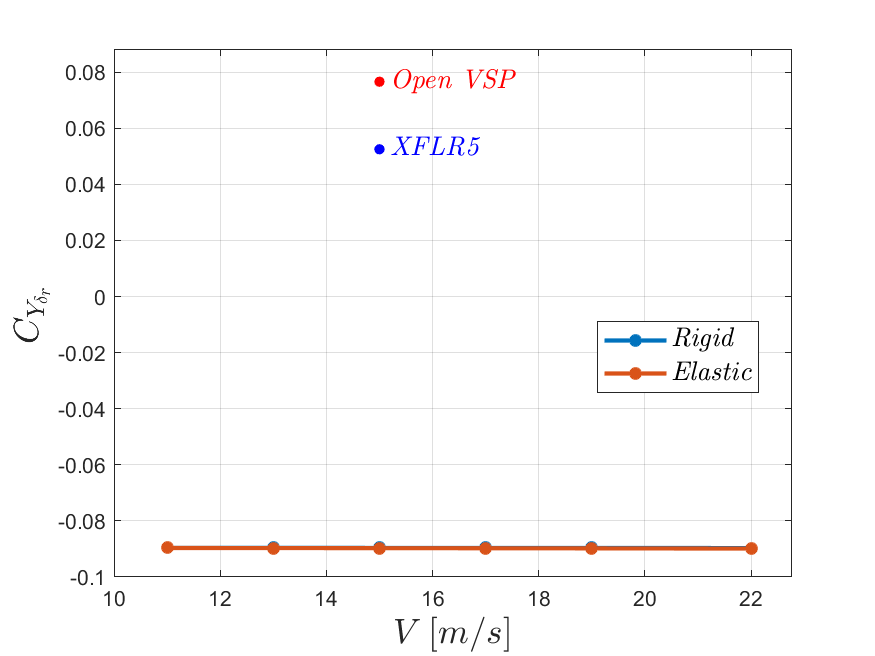
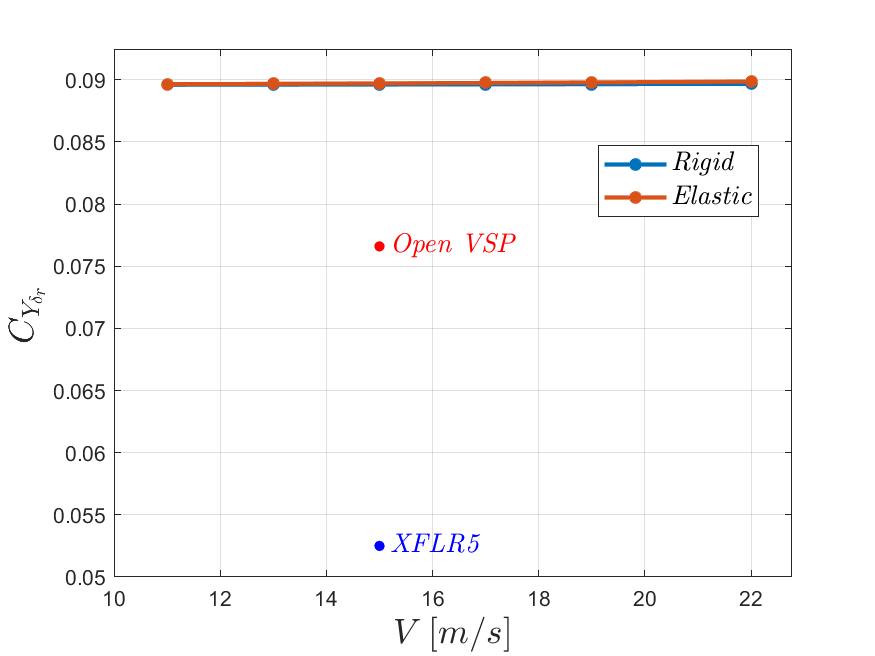
Cambio di segno alle derivate di controllo del latero direzionale

diff --git a/ANALYSIS RESULTS/Stability_derivatives.m b/ANALYSIS RESULTS/Stability_derivatives.m
@@ -196,19 +196,19 @@ writetable(LONG,filename,'Sheet',1,'Range','C2');
 
 Stability_derivative = ["CY";"CY";"CL";"CL";"CN";"CN"];
 Software = ["XFLR5"; "Open VSP"; "XFLR5"; "Open VSP"; "XFLR5"; "Open VSP"];
-beta = [(C_Y_beta_elastic(3) - (-0.175))/(-0.175),...
+beta = [ (interp1(velocity_vector,C_Y_beta_elastic,15) - (-0.175))/(-0.175),...
          (interp1(velocity_vector,C_Y_beta_elastic,15) - (-0.154))/(-0.154),...
          (interp1(velocity_vector,C_L_beta_elastic,15) - (-1.3e-3))/(-1.3e-3),...
          (interp1(velocity_vector,C_L_beta_elastic,15) - (-6.92e-3))/(-6.92e-3),...
          (interp1(velocity_vector,C_N_beta_elastic,15) - (0.0769))/(0.0769),...
          (interp1(velocity_vector,C_N_beta_elastic,15) - (0.0799))/(0.0799)]'*100;
-delta_r = [(C_Y_deltaR_elastic(3) - (0.0525))/(0.0525),...
+delta_r=[(interp1(velocity_vector,C_Y_deltaR_elastic,15) - (0.0525))/(0.0525),...
          (interp1(velocity_vector,C_Y_deltaR_elastic,15) - (0.0766))/(0.0766),...
          (interp1(velocity_vector,C_L_deltaR_elastic,15) - (9.86e-4))/(-9.86e-4),...
          (interp1(velocity_vector,C_L_deltaR_elastic,15) - (2.54e-3))/(2.54e-3),...
          (interp1(velocity_vector,C_N_deltaR_elastic,15) - (-0.024))/(-0.024),...
          (interp1(velocity_vector,C_N_deltaR_elastic,15) - (-0.0364))/(-0.0364)]'*100;
-delta_a = [(interp1(velocity_vector,C_Y_deltaA_elastic,15) - (-2.12e-3))/(-2.12e-3),...
+delta_a=[(interp1(velocity_vector,C_Y_deltaA_elastic,15) - (-2.12e-3))/(-2.12e-3),...
          (interp1(velocity_vector,C_Y_deltaA_elastic,15) - (8.19e-3))/(8.19e-3),...
          (interp1(velocity_vector,C_L_deltaA_elastic,15) - (0.147))/(0.147),...
          (interp1(velocity_vector,C_L_deltaA_elastic,15) - (0.127))/(0.127),...
@@ -314,7 +314,7 @@ while ~feof(file) && n<=subcases
             if     currentLine(1:23) == '    REF. COEFF.      CX'
                 SD.ref_coeff(:,:,n) = get_matrix(currentLine,file);
             elseif currentLine(1:23) == '    RA               CX'
-                SD.ra(:,:,n) = get_matrix(currentLine,file);
+                SD.ra(:,:,n) = -get_matrix(currentLine,file);
             elseif currentLine(1:23) == '    EL               CX'
                 SD.el(:,:,n) = get_matrix(currentLine,file);
                 n = n+1;
@@ -325,13 +325,13 @@ while ~feof(file) && n<=subcases
             elseif currentLine(1:23) == '    URDD3            CX'
                 SD.urdd3(:,:,n) = get_matrix(currentLine,file);
             elseif currentLine(1:23) == '    RU               CX'
-                SD.ru(:,:,n) = get_matrix(currentLine,file);
+                SD.ru(:,:,n) = -get_matrix(currentLine,file);
             elseif currentLine(1:23) == '    URDD5            CX'
                 SD.urdd5(:,:,n) = get_matrix(currentLine,file);
             elseif currentLine(1:23) == '    LA               CX'
-            SD.la(:,:,n) = get_matrix(currentLine,file);
+            SD.la(:,:,n) = -get_matrix(currentLine,file);
             elseif currentLine(1:23) == '    LU               CX'
-            SD.lu(:,:,n) = get_matrix(currentLine,file);
+            SD.lu(:,:,n) = -get_matrix(currentLine,file);
             elseif currentLine(1:23) == '    SIDES            CX'
             SD.sides(:,:,n) = get_matrix(currentLine,file);
             elseif currentLine(1:23) == '    ROLL             CX'
